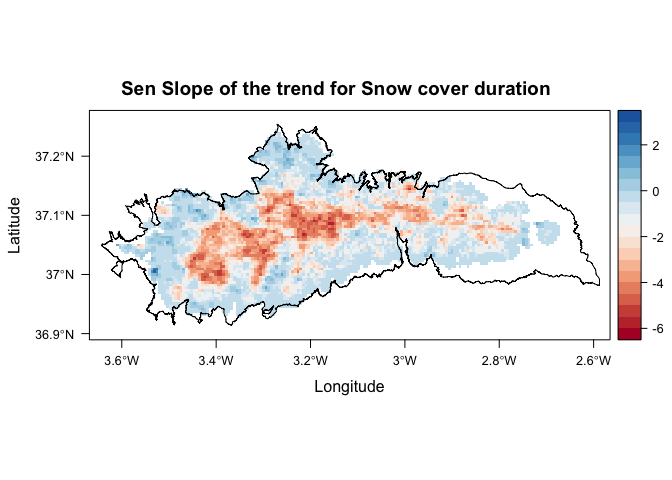
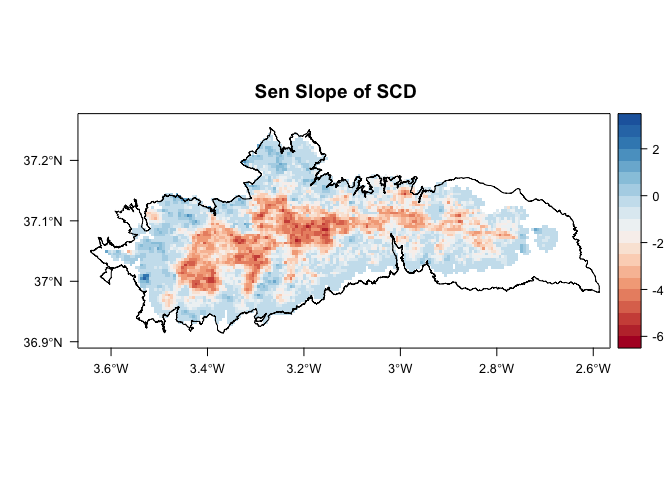
update maps

diff --git a/analysis/create_maps.md b/analysis/create_maps.md
@@ -262,7 +262,7 @@ lp <- levelplot(stack_sen_1250_re,
           margin=FALSE,
           contour=TRUE, at=seq(-6,3, by=1),
           main='Sen Slope of the trend for Snow cover duration',
-          pretty=TRUE) + layer(sp.polygons(sn_re))
+          pretty=TRUE) + latticeExtra::layer(sp.polygons(sn_re))
 
 
 print(lp)
@@ -279,12 +279,11 @@ exportpdf(mypdf=paste0(di, '/images/raster_maps/r_sen_scd_latlong_contour.pdf'),
 
 ``` r
 lp <- levelplot(stack_sen_1250_re, 
-          layer="scd", 
+          layer="scd", xlab=NULL, ylab=NULL,
           par.settings=RdBuTheme, 
           margin=FALSE,
-          main='Sen Slope of the trend for Snow cover duration',
-          pretty=TRUE) + layer(sp.polygons(sn_re))
-
+          main='Sen Slope of SCD',
+          pretty=TRUE) + latticeExtra::layer(sp.polygons(sn_re))
 
 print(lp)
 ```
@@ -298,17 +297,28 @@ exportpdf(mypdf=paste0(di, '/images/raster_maps/r_sen_scd_latlong.pdf'), lp)
     ## quartz_off_screen 
     ##                 2
 
+``` r
+tiff(filename=paste0(di, '/images/raster_maps/r_sen_scd_latlong.tiff'), 
+     height = 1600, width = 2500, res=200, pointsize = 20, bg='transparent')
+print(lp)
+dev.off()
+```
+
+    ## quartz_off_screen 
+    ##                 2
+
 Annual precipitation and snow precipitation
 -------------------------------------------
 
 ``` r
 lp <- levelplot(stack_tau_1250_re, 
-          layer=c("pre","pre_snow", "pre_snow_per"), 
-          par.settings=RdBuTheme, 
+          layer=c("pre","pre_snow", "temp"), 
+          par.settings=RdBuTheme,
+        xlab=NULL, ylab=NULL, 
+          names.attr=c("Precipitation", "Snowfall", "Temperature"),
           margin=FALSE,
           pretty=TRUE,
-          main='Tau for precipitation and snow precipitation',
-          layout=c(1,3)) + layer(sp.polygons(sn_re))
+          layout=c(1,3)) + latticeExtra::layer(sp.polygons(sn_re))
 
 
 print(lp)
@@ -318,6 +328,16 @@ print(lp)
 
 ``` r
 exportpdf(mypdf=paste0(di, '/images/raster_maps/r_tau_precipitations_latlong.pdf'), lp) 
+```
+
+    ## quartz_off_screen 
+    ##                 2
+
+``` r
+tiff(filename=paste0(di, '/images/raster_maps/r_tau_pre_snow_temp_latlong.tiff'), 
+     height = 1600, width = 2500, res=200, pointsize = 20, bg='transparent')
+print(lp)
+dev.off()
 ```
 
     ## quartz_off_screen 
